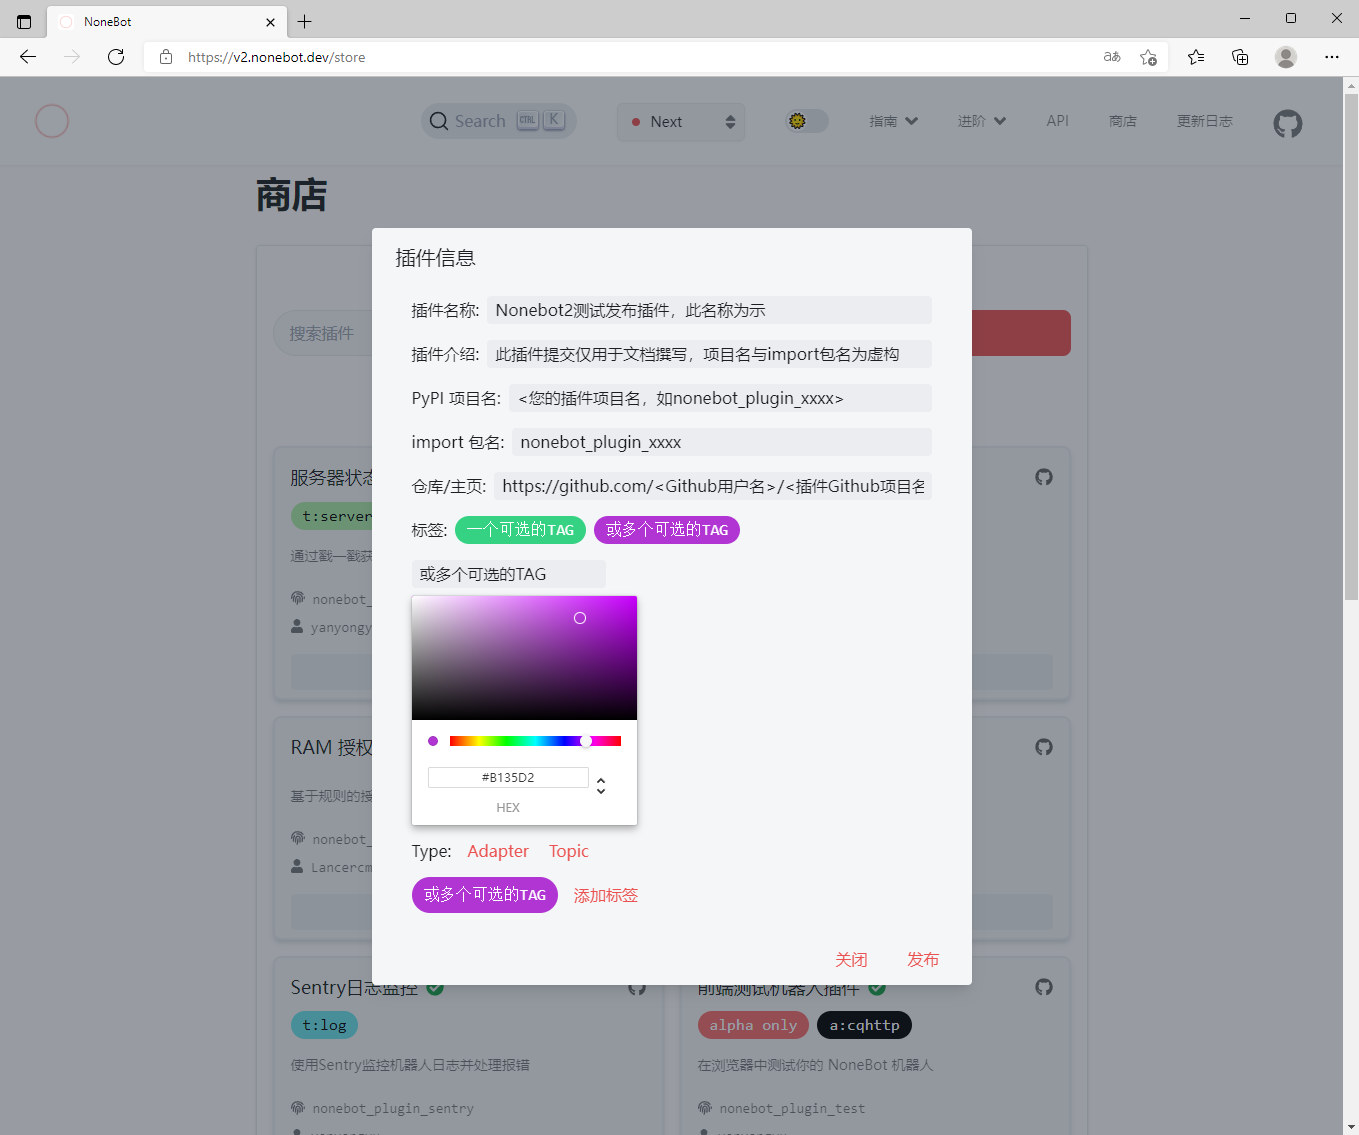
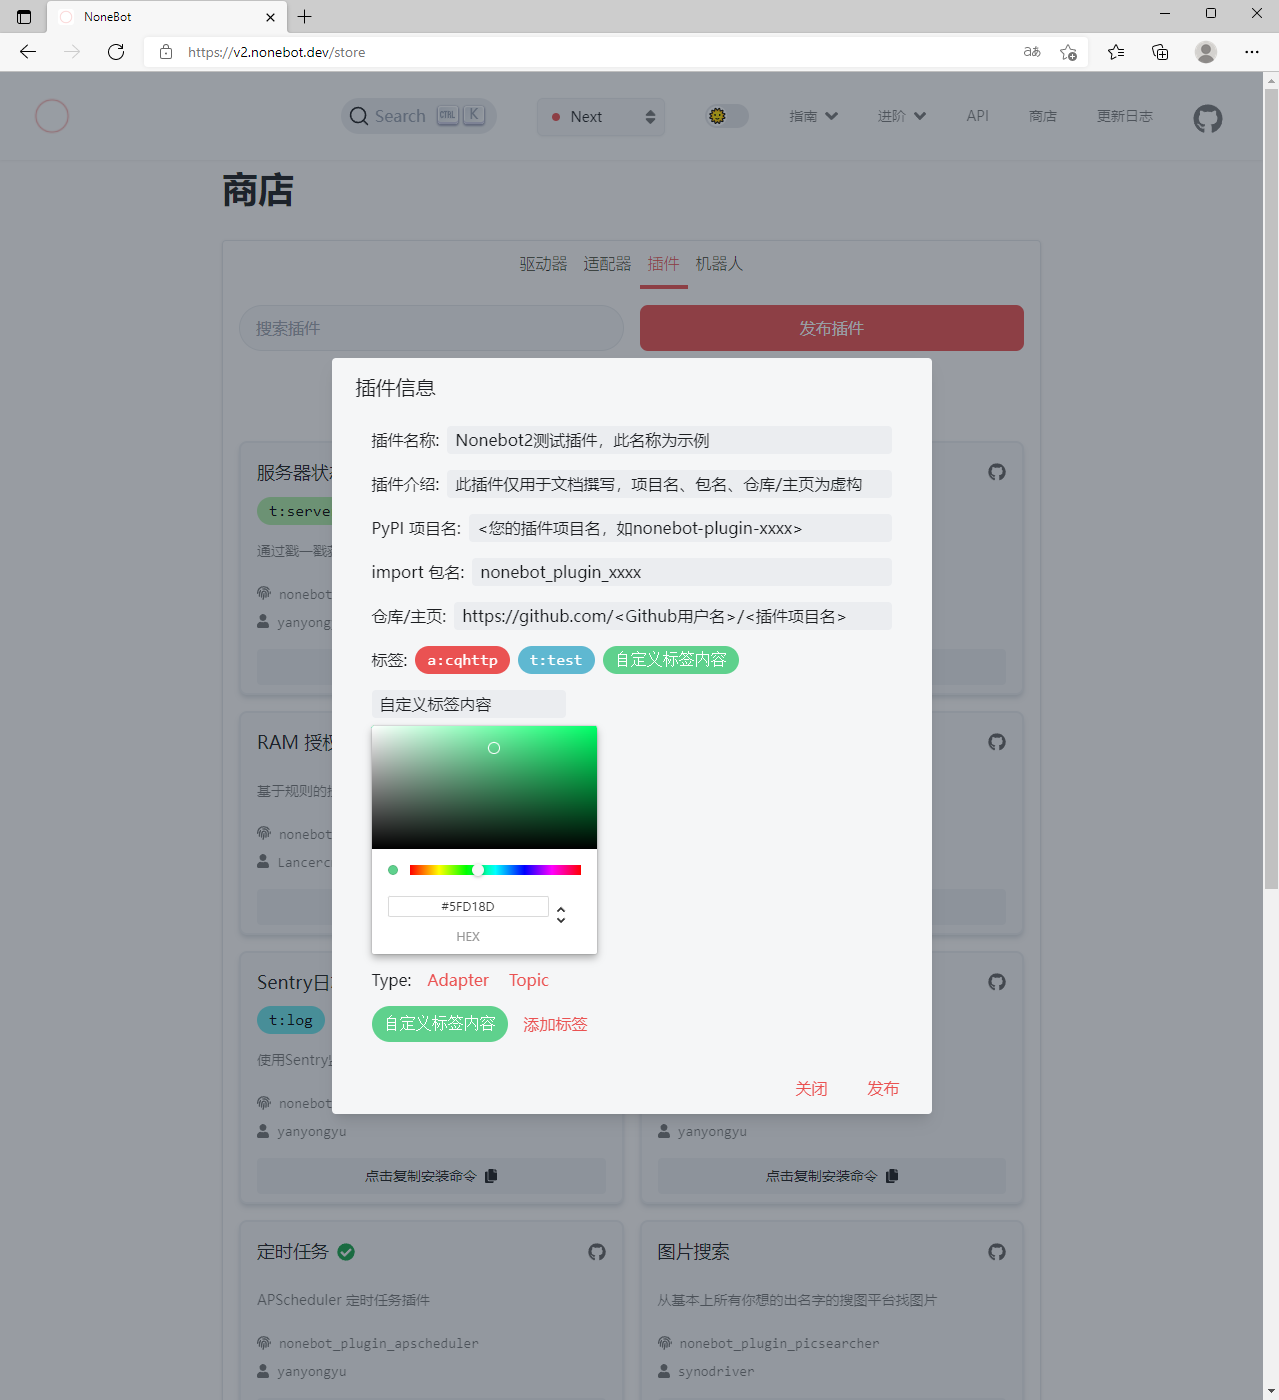
:memo: 更新插件发布流程
增加对标签内容的介绍，增加发布issue修改提醒

diff --git a/website/docs/advanced/publish-plugin.md b/website/docs/advanced/publish-plugin.md
@@ -41,7 +41,9 @@ options:
 PyPI项目名： 您的插件所在的PyPI Project名，如 nonebot-plugin-xxxx
 import包名： 您的插件通过Python导入时使用的包名，如 nonebot_plugin_xxxx
 仓库/主页： 您的插件托管地址，如 https://github.com/<您的Github用户名>/nonebot-plugin-xxxx
-标签： 一个或多个可选颜色的TAG，每填写一个点击添加标签，若要删除，点击标签即可
+标签： 一个或多个可选颜色的TAG，每填写一个点击添加标签，若要删除，点击标签即可；标签长度不超过10字符，标签个数不超过3个
+特定标签内容Adapter：点击Type的Adapter，将创建一个 a: 开头的标签，填入内容以指定您插件使用的adapter
+特定标签内容Topic：点击Type的Topic，将创建一个 t: 开头的标签，填入内容以指定您插件的主题
 ```
 
 ![插件信息填写](./images/plugin_store_publish_2.png)
@@ -51,6 +53,8 @@ import包名： 您的插件通过Python导入时使用的包名，如 nonebot_p
 ### 等待插件发布处理
 
 您的插件发布 Issue 创建后，将会经过*Nonebot2 Publish Bot*的检查，以确保插件信息正确无误。
+
+若您的插件发布 Issue 未通过检查，您可以 **直接修改** Issue内容以更新发布请求。*Nonebot2 Publish Bot*在您修改Issue内容后将会自动重新执行检查。您无需关闭、重新提交发布申请。
 
 之后，NoneBot2 的维护者们将会对插件进行进一步的检查，以确保用户能够正常安装并使用该插件。
 
